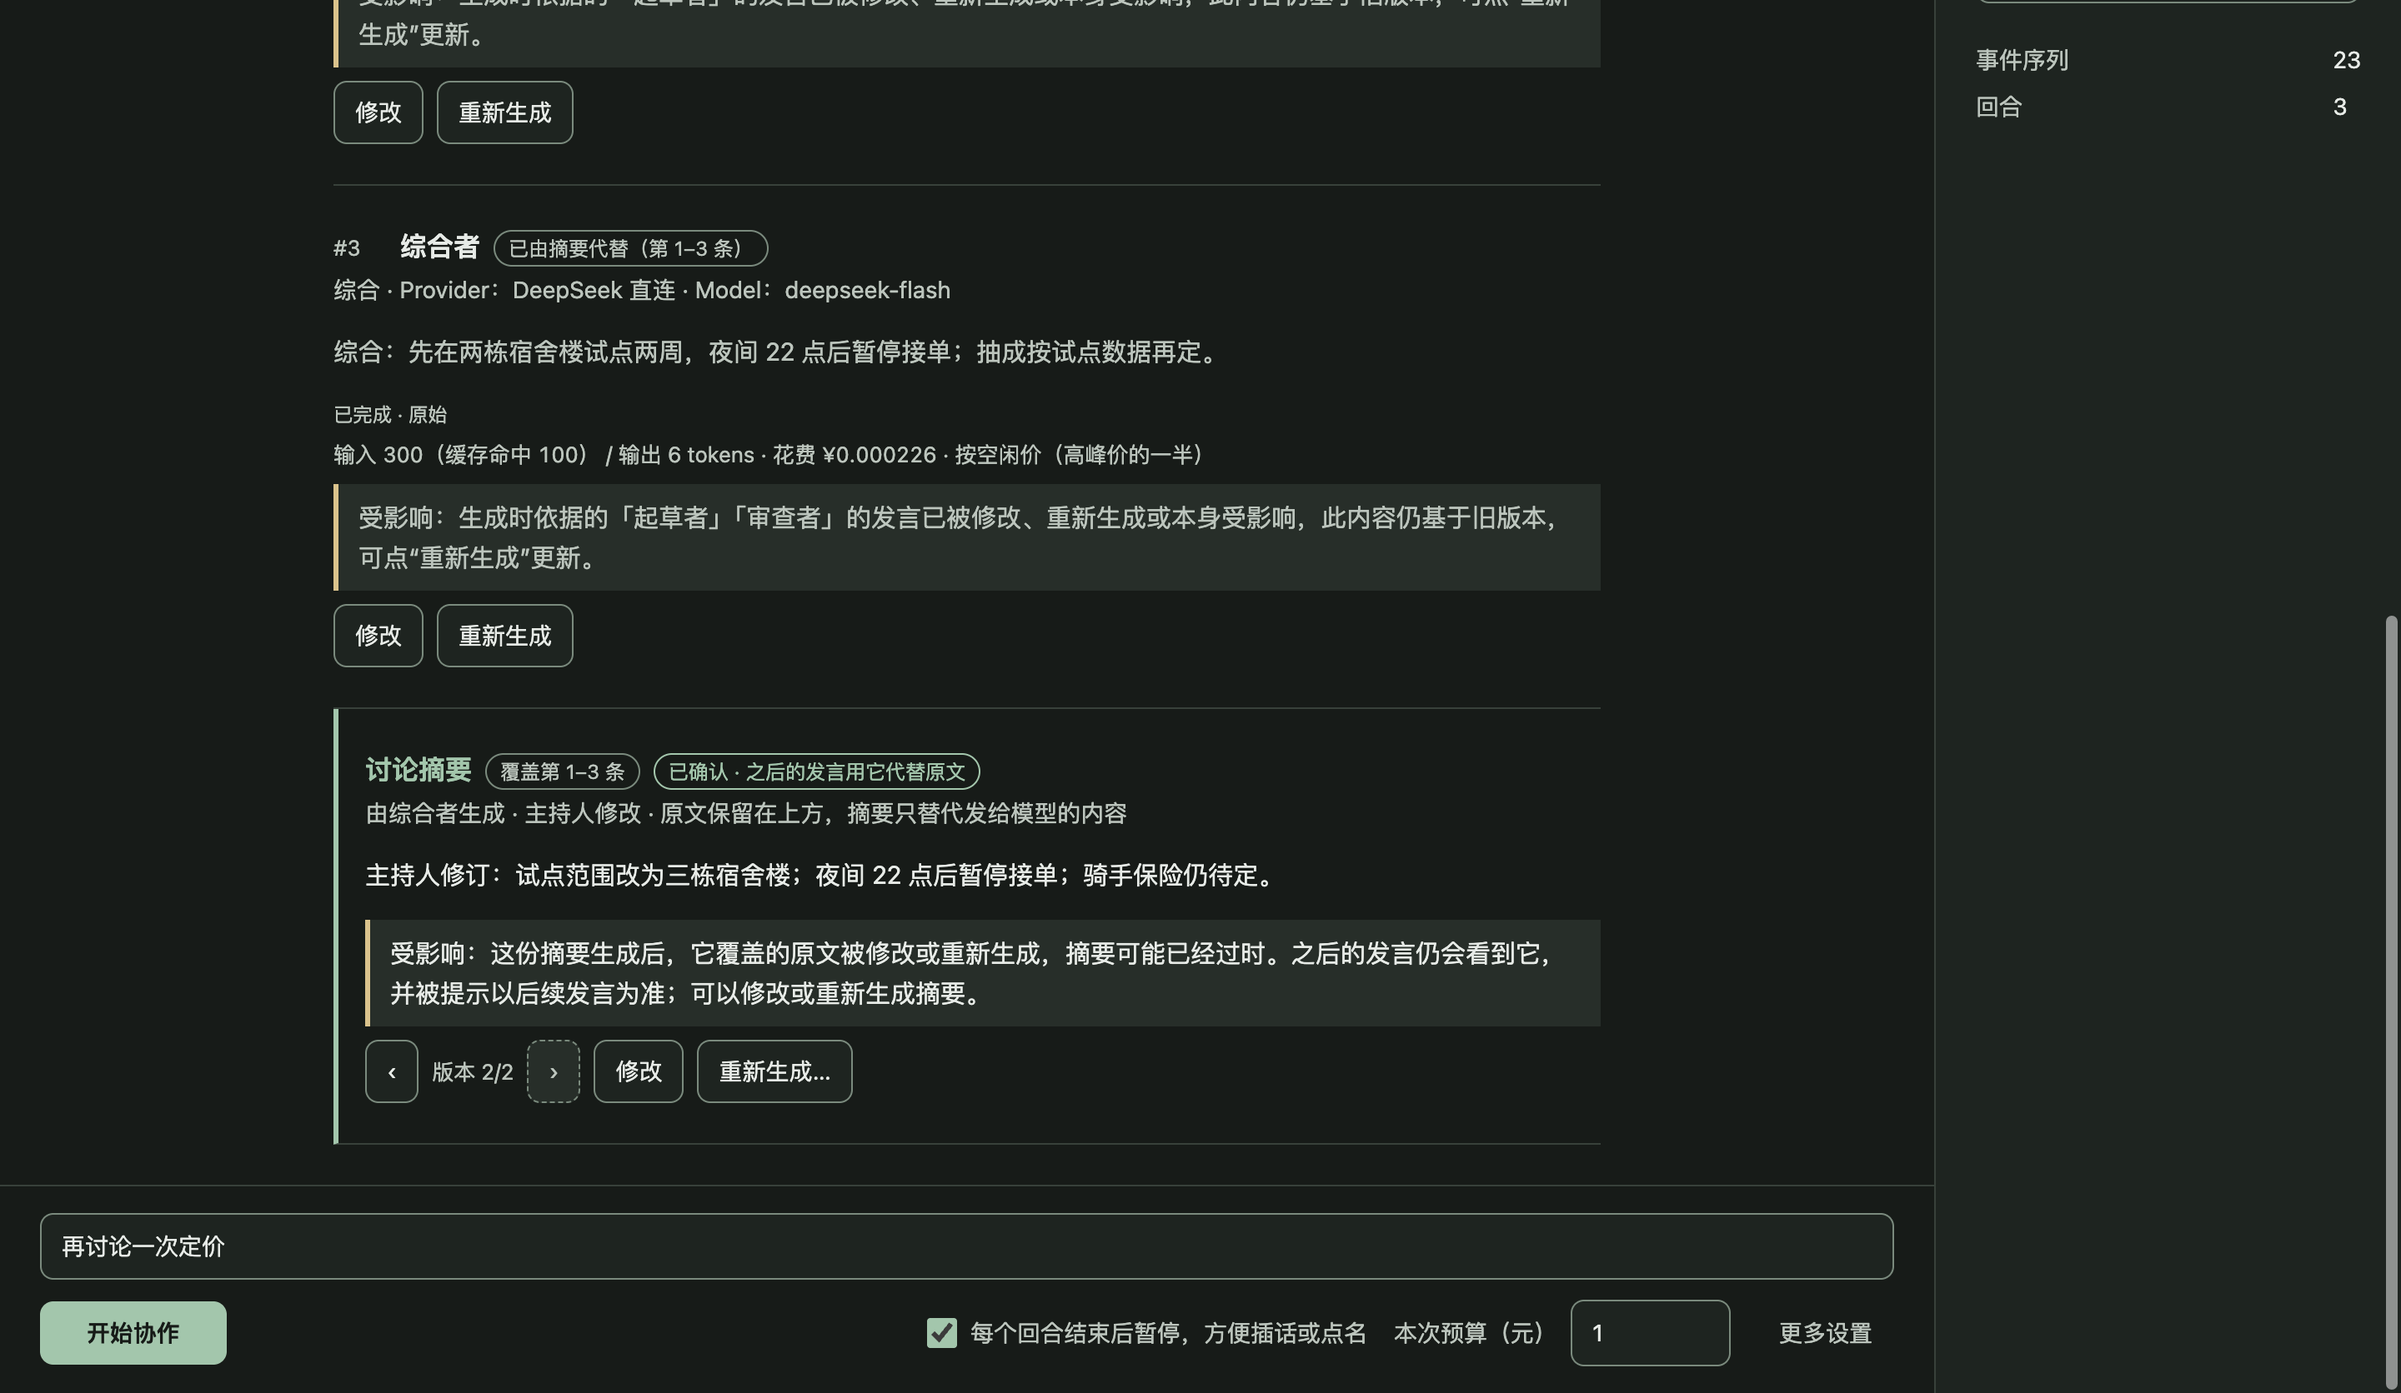
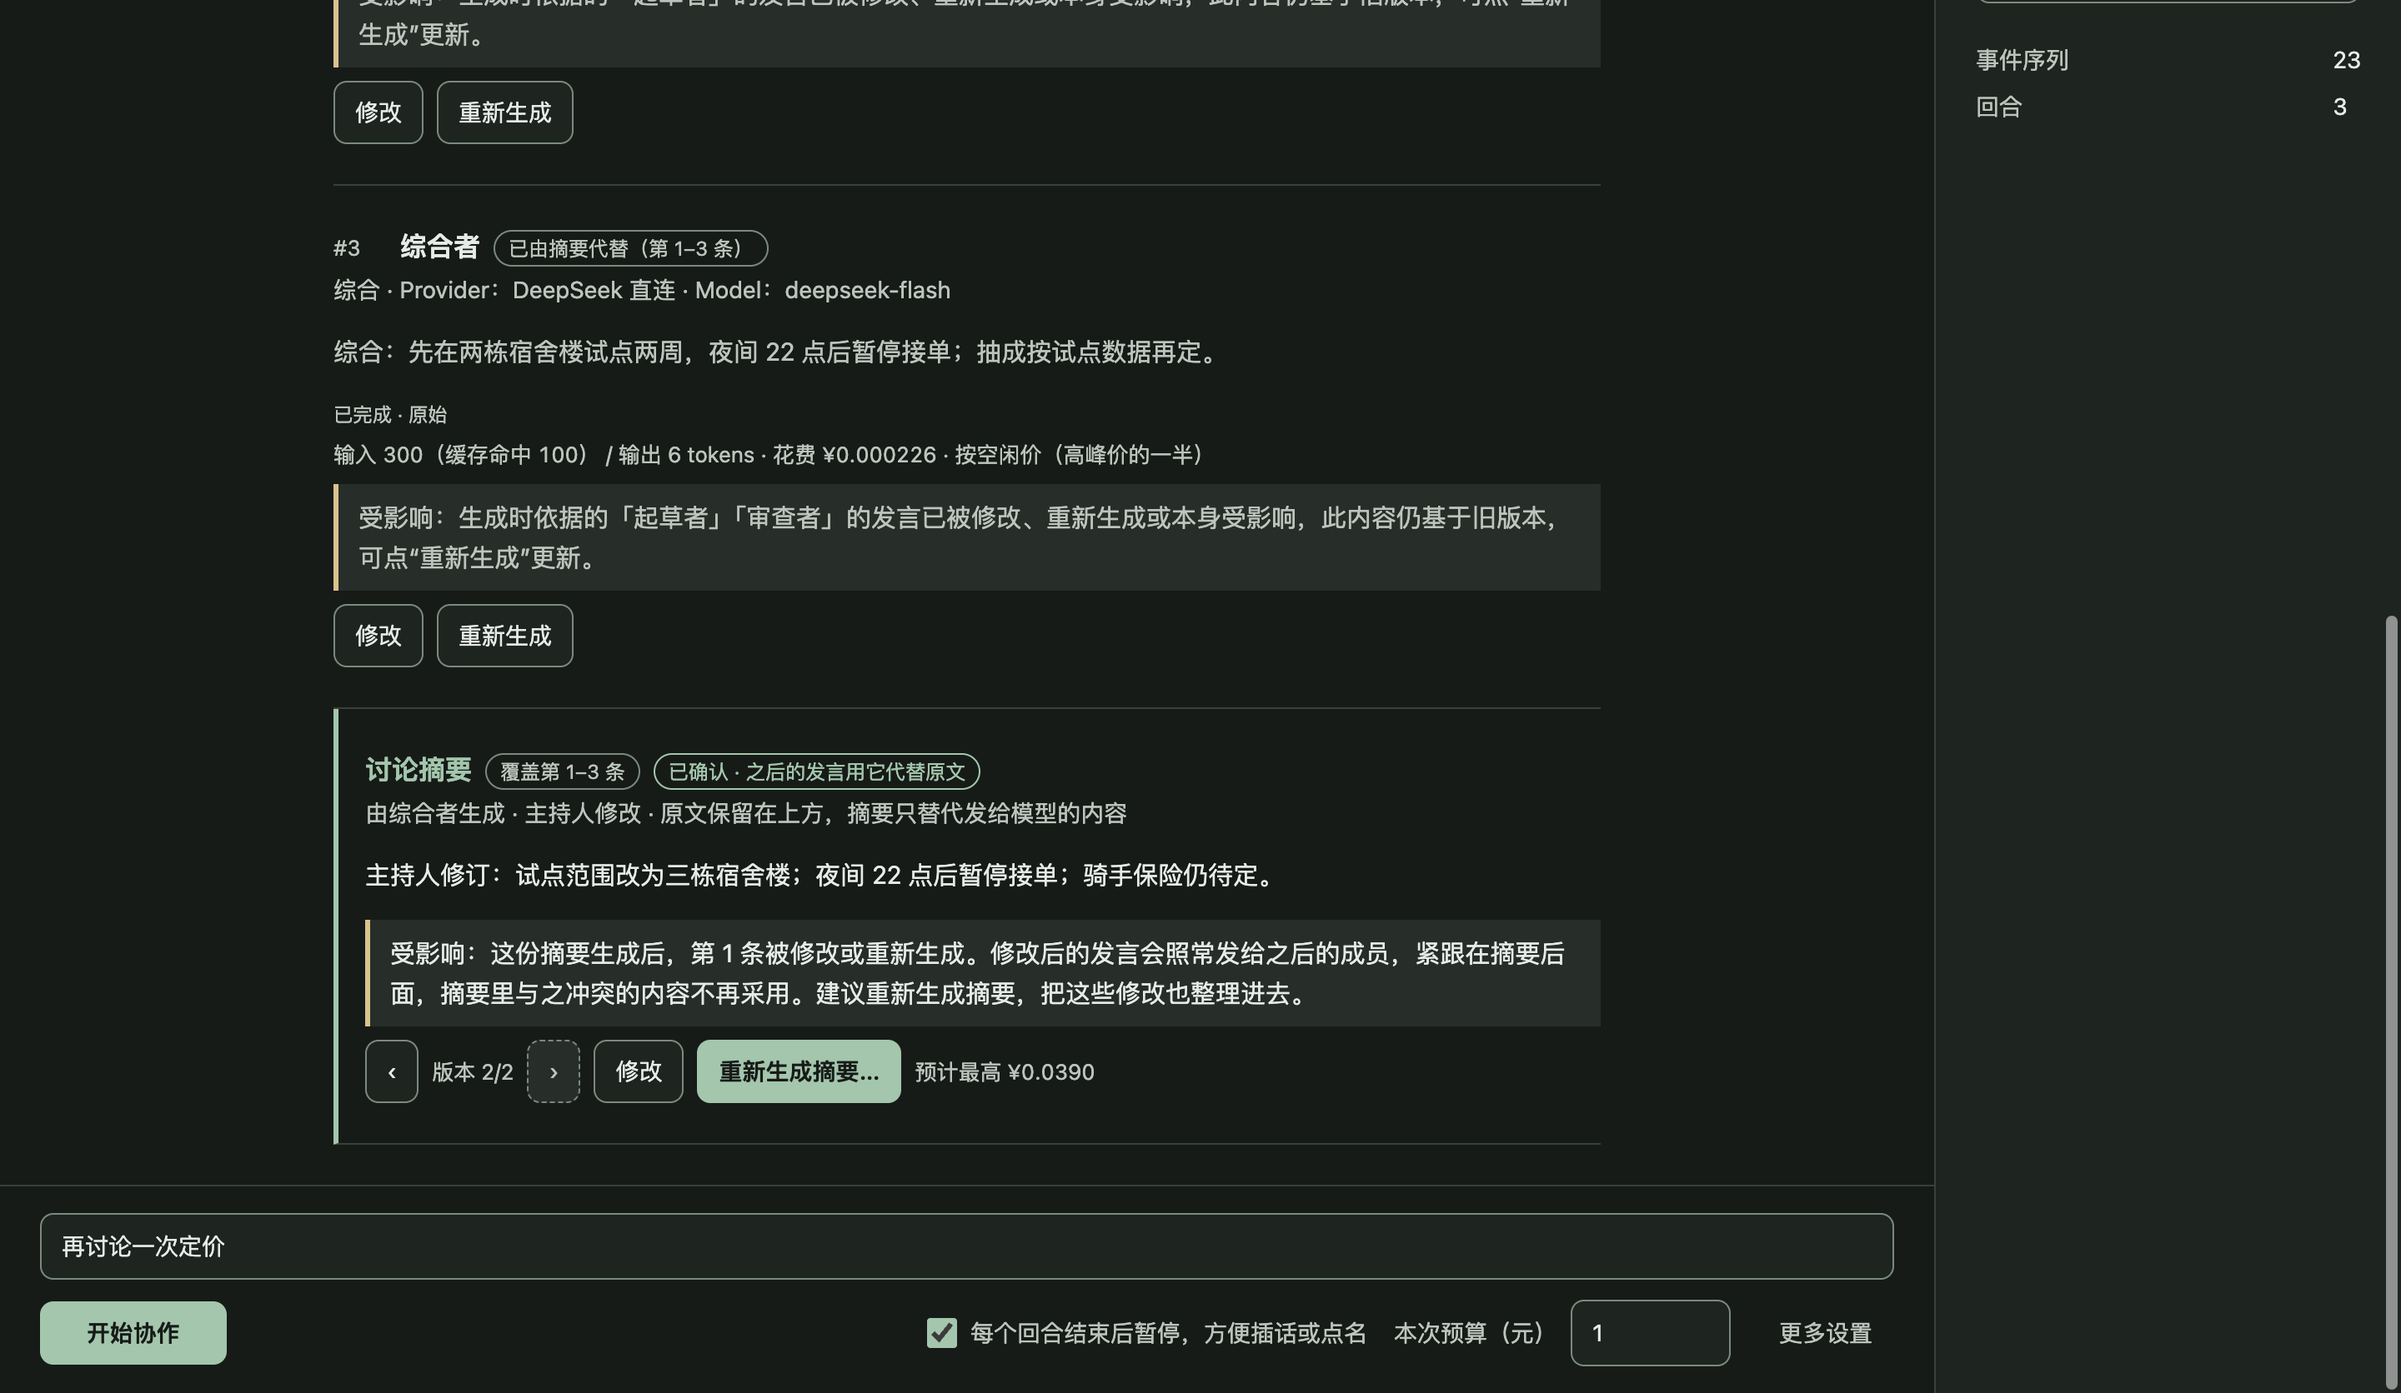
docs(r13b): D109, contract row, review fixes and refreshed screenshots
Typecheck, 130 files / 1936 tests and build pass; R01 x3, R07/R08, R09,
R10/R11, R12, R13A, R13B (first + restart, 0 requests after restart) and the
premerge, R13A, R12 and R13B hands-on probes pass on the final code.

Changed region(s): [[0.1562, 0.6531, 0.6562, 0.8086]]

diff --git a/docs/verification/2026-10-23-r13b.md b/docs/verification/2026-10-23-r13b.md
@@ -17,8 +17,8 @@
 
 | 探针 | 结果 |
 | --- | --- |
-| `r13b-electron.cjs` 首次 / `--restart` | 首次 22 项、7 次夹具请求；重启 12 项、**0 次请求**（在途的摘要重新生成请求变 interrupted、费用按上限记 unknown、部分文字保留；追加、核销、时段计价、确认的摘要都保留） |
-| `r13b-acceptance.cjs`（真实鼠标/键盘事件 + 输入法组合输入中文） | 20 项检查、13 张截图、5 次夹具请求，无控制台错误、无外联 |
+| `r13b-electron.cjs` 首次 / `--restart` | 首次 26 项、12 次夹具请求（含 D109：摘要后修改被覆盖原文，下一次请求体同时带摘要和带说明的修改、未修改的原文仍被代替）；重启 12 项、**0 次请求**（在途的摘要重新生成请求变 interrupted、费用按上限记 unknown、部分文字保留；追加、核销、时段计价、确认的摘要都保留） |
+| `r13b-acceptance.cjs`（真实鼠标/键盘事件 + 输入法组合输入中文） | 25 项检查、13 张截图、5 次夹具请求，无控制台错误、无外联 |
 | 既有探针回归 | 见下方"最终结果" |
 
 截图（`docs/verification/r13b-screens/`）：
@@ -31,9 +31,9 @@
 | 04-summary-pending.png | 生成后出现"讨论摘要 · 覆盖第 1–3 条 · 待确认 · 确认前之后的发言仍使用原文"并提示先读一遍；夹具时钟切到周五 10:00，这次请求显示"花费 ¥0.000452 · 按高峰价"。 |
 | 05-summary-confirmed.png | "确认使用"后标为"已确认 · 之后的发言用它代替原文"；三条原文完整保留，只在名字旁标"已由摘要代替（第 1–3 条）"并变灰。 |
 | 06-summary-edited.png | 在摘要上"修改"，用输入法改写并"保存为新版本"：版本 2/2，修改即主持人确认，仍在使用。 |
-| 07-summary-affected.png | 再修改被覆盖的第 1 条原文：摘要随即标"受影响：这份摘要生成后，它覆盖的原文被修改或重新生成，摘要可能已经过时"；之后的请求也带同样说明。 |
+| 07-summary-affected.png | 再修改被覆盖的第 1 条原文（D109）：摘要标出"受影响：这份摘要生成后，第 1 条被修改或重新生成。修改后的发言会照常发给之后的成员，紧跟在摘要后面，摘要里与之冲突的内容不再采用。建议重新生成摘要……"，"重新生成摘要…"旁直接显示"预计最高 ¥0.0390"。第 1 条的标注变成"摘要后已修改 · 照常发给后续成员"，第 2、3 条仍"已由摘要代替"（脚本核对）。下一次请求实际带上摘要和这条修改，由生产探针用请求体核对。 |
 | 08-writeoff-form.png | 新开一次逐回合运行，夹具不返回用量：回复下"费用未知（按上限计 ¥0.038574）· 服务商未返回用量"。点"核销"，填实际金额 0.0003、用输入法写依据说明、勾选"我已在服务商控制台核对过这次请求的实际扣费"后才能保存。 |
-| 09-written-off.png | 保存后显示"已核销 ¥0.000300（原按上限计 ¥0.038574，少计 ¥0.038274）· 依据：…"与"更正核销"；预算栏"累计花费 ¥0.0003（含已核销 ¥0.0003）"、剩余额度恢复。原 unknown 账本行未改。 |
+| 09-written-off.png | 保存后显示"已核销 ¥0.000300（原按上限计 ¥0.038574，比原上限少 ¥0.038274） · 依据：…"与"更正核销"；预算栏"累计花费 ¥0.0003（含已核销 ¥0.0003）"、剩余额度恢复。原 unknown 账本行未改。 |
 | 10-usage-by-run.png | "用量"页：合计、已结算（"4 次，其中 3 次按空闲价；全按高峰价为 ¥0.0026"）、未知（按上限计）、已核销分开；"按运行"表格逐次汇总，下方列出未知费用（含已核销，可更正）。 |
 | 11-usage-export.png | "按日期"并"导出 CSV"：Main 弹出系统保存对话框（探针用自己的临时目录作答），"已导出 5 条记录到 usage-export.csv"。CSV 每笔一行，含北京时间计价起止、空闲/高峰价、单价、按高峰价金额、计入金额、核销依据。 |
 | 12-usage-dark.png | 深色主题下的用量页。 |
@@ -58,15 +58,24 @@
 | `pnpm run build` | exit 0 |
 | R01 `r01-electron.cjs`（默认、`--joint-ui`、`--r03-recovery`） | 三种模式 PASS（Bridge 断言更新为含 summary/usage 两组、run 增加 addBudget/resumeAfterBudget） |
 | R07/R08 首次 / 重启 | 各 18 项 Bridge 断言 PASS |
-| R09 首次 / 重启 | 63 项 / 12 次请求；5 项 / **0 次请求** |
+| R09 首次 / 重启 | 64 项 / 12 次请求；5 项 / **0 次请求** |
 | R10/R11 | 53 项 / 26 次请求 |
 | R12 首次 / 重启 | 22 项 / 4 次请求；14 项 / **0 次请求** |
 | R13A 首次 / 重启 | 13 项 / 4 次请求；12 项 / **0 次请求**（预算拦截的文字断言随 D104 更新为"预算不足，已暂停发送…"） |
-| R13B 首次 / 重启 | 22 项 / 7 次请求；12 项 / **0 次请求** |
+| R13B 首次 / 重启 | 26 项 / 12 次请求；12 项 / **0 次请求** |
 | premerge 实操 首次 / 重启 | 56 项 / 9 次请求；11 项 / 0 次请求 |
 | R13A 实操、R12 实操 | 21 项 / 3 次请求；25 项 |
-| R13B 实操 | 20 项 / 13 张截图 / 5 次请求 |
+| R13B 实操 | 25 项 / 13 张截图 / 5 次请求 |
 
 旧实操探针会重写各自的截图目录；为保留历史证据，跑完后已把 `premerge-quality-screens`、`r13a-screens`、`r12-screens` 还原为原提交版本。
 
 过程中的失败（保留记录）：R01 三种模式与 R07/R08 首轮因 Bridge 组精确核对而失败（预期，已更新断言后通过）；R13A 生产探针首轮因预算拦截文案变化失败（已更新断言后首次与重启通过）；R13B 实操首轮因房间列表未刷新找不到房间（探针步骤问题，改为先刷新）。
+
+## 总控审查后的修改（2026-10-23）
+
+1. 阻塞项：受影响的摘要挡住了主持人对被覆盖原文的修改。按 D109 改为把摘要后被修改的被覆盖消息作为必需上下文紧跟在摘要后发送，并带说明；界面文案与"重新生成摘要"旁的预计花费同步修改（截图 07 重新生成）。
+2. 文案：核销结果的"少计"改为"比原上限少"，时间线和用量页统一（截图 09、10、11 重新生成）。
+
+修改后在最终代码上重跑：typecheck、全量测试（130 / 1936）、build、全部隔离生产探针（首次 + 重启）与实操回归，数字见上表。
+
+重跑中发现：R13A 生产探针和 R13A 实操在北京时间晚上（空闲时段）失败——R13B 起结算按实际时段计价，而这两个探针断言的是高峰未命中价金额（¥0.000648/次），之前下午运行时恰好处于高峰才通过。两者已改为在导入生产 Main 后把 `settlementClock` 固定在周五 10:00（高峰）这一命名清楚的夹具时钟，之后首次 13 项 / 4 次请求、重启 12 项 / 0 次请求、实操 21 项 / 3 次请求通过。业务代码未改。

diff --git a/docs/CONTRACTS.md b/docs/CONTRACTS.md
@@ -380,19 +380,19 @@ R13A 子会话（分支 `codex/r13a-real-model-enable`，基线 R12 `15e2e30`）
 
 ## R13B 追加预算、核销、按时段结算、摘要与用量（2026-10-23，子会话候选，未合 main）
 
-分支 `codex/r13b-usage-summary`（基线 `03de217`）。决策见 [DECISIONS](DECISIONS.md) D104–D108。
+分支 `codex/r13b-usage-summary`（基线 `03de217`）。决策见 [DECISIONS](DECISIONS.md) D104–D109。
 
 | 层 | 变化 | 兼容性 |
 | --- | --- | --- |
 | Database / migration 9 | 新表（全部只追加、禁改禁删）：`run_budget_topups`（插入触发器保证总上限 ≤ ¥1000）、`charge_writeoffs`（只能针对 CNY unknown 账本，金额 ≤ 预留）、`charge_pricing`（只能针对 settled 账本，金额须等于"命中×命中价 + 未命中×未命中价 + 输出×输出价"向上取整，且 ≤ `accounted_micro`）、`context_summaries`、`summary_requests`（只能 generating → completed/failed/aborted/interrupted 一次）、`summary_confirmations`、`summary_charges`（逐条照搬 `request_charges` 约束）。`validateDatabase` 对 v9 校验表、23 个触发器与身份一致性；启动恢复把 generating 摘要请求改 interrupted、`summary_charges` 的 reserved 改 unknown | migration 1–8 未改；当前 schema 版本 8→9，相关测试断言同步 +1。R13A 已结算记录不回填计价，仍按高峰价 |
 | Database 方法 | `reserveCharge/settleCharge` 支持 `kind: 'summary'` 与可选 `pricing`；`getCharge/listCharges` 合并两张账本并附 `settlement`、`writeOffs`、`kind`；`getRunBudget` 增加 `initialLimitMicro`、`topUps`、`writtenOffMicro`，`limitMicro` 改为含追加的总上限；新增 `addBudgetTopUp`、`writeOffCharge`、`listLedger`、`listLedgerLabels`、摘要相关读写；`readRunSnapshot` 增加 `summaries` | 返回结构只增字段 |
 | Shared `schemas/budget.ts` | `requestChargeSchema` 增加可选 `kind`、`settlement`、`writeOffs`，`chargedMicro` = `effectiveChargeMicro()`（settled 取实际计价、unknown 取最新核销或预留）；`settlementAmountMicro()`；`runBudgetSchema` 增加可选字段；`addRunBudgetInput/ResultSchema`（结果含可选 `resumeError`）、`writeOffChargeInput/ResultSchema`、`writeOffBasisSchema`、`containsApiKeyLike` | 只增可选字段；旧数据（无计价、无核销）结果与 R13A 相同 |
-| Shared `schemas/summary.ts`、`schemas/usage.ts`（新） | 摘要预览/生成/确认的输入输出、`contextSummarySchema`、`contextPressureSchema`、`summaryLabel()`；用量报表 `usageReportSchema`（按运行/模型/日期 + 未知费用列表）、`usageExportResultSchema` | 新文件 |
+| Shared `schemas/summary.ts`、`schemas/usage.ts`（新） | 摘要预览/生成/确认的输入输出、`contextSummarySchema`（含可选 `revisedSlotIds`，D109）、`contextPressureSchema`、`summaryLabel()`；用量报表 `usageReportSchema`（按运行/模型/日期 + 未知费用列表）、`usageExportResultSchema` | 新文件 |
 | Shared `schemas/run.ts`、`host.ts`、`provider.ts`、`error.ts` | 快照增加可选 `summaries`、`contextPressure`；`charges` 中 `kind: 'summary'` 的条目须对应快照内的摘要请求；新增 run 级事件 `budget_updated`、`summary_updated`、`summary_delta`；`messageVersion.author` 增加 `summary`；usage 块增加可选 `cacheHitInputTokens`（≤ inputTokens）；`ErrorField` 增加 `amountMicroCny`、`basis`、`requestId`、`acknowledgedUncertainty`、`throughSlotId`、`summaryId` | 只增可选字段/枚举/事件；旧 Renderer 遇未知事件按既有规则重同步 |
 | IPC / Preload | 新通道：`run.addBudget`、`run.resumeAfterBudget`、`usage.getReport`、`usage.writeOff`、`usage.exportCsv`、`summary.preview`、`summary.generate`、`summary.confirm`；输出校验与请求 runId（核销另校验 requestId）一致；写入类通道计入关窗前待完成写入。Bridge 键集合变为 host/room/rooms/run/settings/summary/usage，仍无通用 invoke/send | 新增通道 |
 | Main 装配 | `RunService` 构造参数增加 `modelBudget(member)`（摘要计数与上下文占用）；`UsageService`；`registerIpc` 服务参数增加 `usage`；CSV 由 Main 的系统保存对话框选择路径；`main/index` 导出 `settlementClock`（仅供命名清楚的夹具探针替换） | — |
 | Provider | OpenAI 兼容适配器解析 `prompt_cache_hit_tokens`/`prompt_cache_miss_tokens`（和等于 prompt_tokens 时才给出命中数）；DeepSeek 策略带 `periodPricing`（空闲/高峰 × 命中/未命中/输出单价、北京时间窗口），`validPrice` 要求结算单价不高于预留单价；`RequestQuote.periodPricing` | 只增可选字段 |
-| R05 context（Main 私有） | `ContextInput.summary?`（已确认摘要与被覆盖的全部消息 ID）；被覆盖的历史以 `summarized` 排除；摘要作为必需上下文放在任务之后，来源 kind `summary`；`measureContext()` 按真实组装方式测量下一次请求 | 无摘要时与 R13A 相同 |
+| R05 context（Main 私有） | `ContextInput.summary?`（已确认摘要、被覆盖且未被修改的消息 ID、D109 的 `revisedMessageIds?`）；被覆盖的历史以 `summarized` 排除；摘要作为必需上下文放在任务之后，来源 kind `summary`；摘要后被修改的被覆盖消息作为必需上下文紧随其后并带说明（D109）；`measureContext()` 按真实组装方式测量下一次请求 | 无摘要时与 R13A 相同 |
 | Renderer | 时间线编号、摘要消息、摘要面板、上下文提示；预算栏追加与历史、预算停止处"追加并继续"；花费行"按高峰价/按空闲价"、就地核销；新"用量"页；store 就地应用 `summary_delta` | — |
 
 安全影响：所有新写入只来自 typed IPC 和主持人点击，每次带 clientRequestId 幂等；模型文本不能触发追加、核销、确认或生成。摘要请求复用成员冻结的 Provider/模型、既有生成门禁、预留与结算；不自动生成、不自动重发。核销依据拒绝类密钥文本；CSV 由 Main 写入用户选择的文件，Renderer 无文件系统能力；导出单元格做公式中和。
